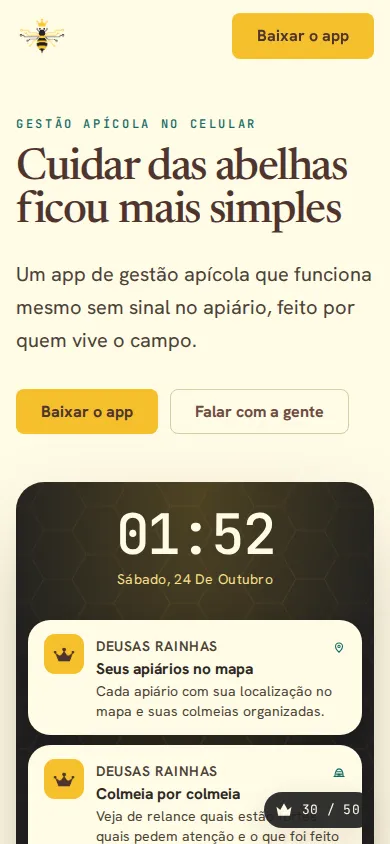
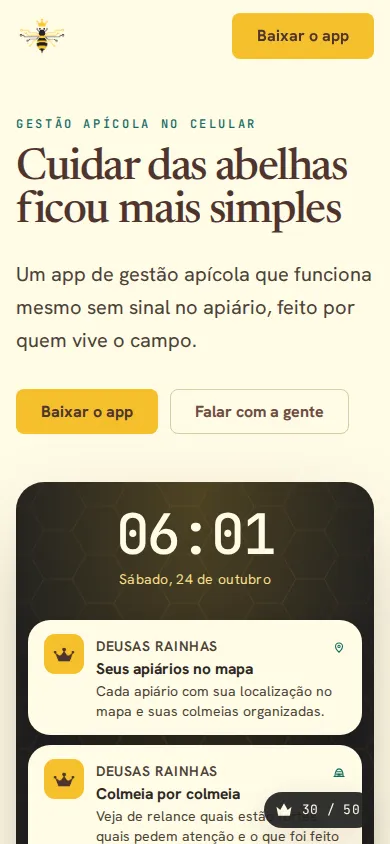
Corrige acessibilidade do bottom sheet e das abas no 29, pin do 27 só a partir de 1100px e data em caixa de frase no 30

Changed region(s): [[0.3077, 0.5853, 0.5231, 0.7085], [0.5538, 0.5853, 0.7077, 0.6469], [0.5538, 0.6777, 0.7077, 0.7085]]

diff --git a/templates/29-bolso.html b/templates/29-bolso.html
@@ -240,6 +240,7 @@
     .sheet__lista .ic { display: grid; place-items: center; width: 44px; height: 44px; border-radius: 14px; background: var(--branco); color: var(--terra); }
     .sheet__lista .chev { width: 20px; height: 20px; color: var(--terra-clara); }
     .sheet__rodape { margin-top: var(--sp-4); }
+    @media (max-width: 599px) { .sheet__rodape { padding-bottom: 118px; } } /* livra a pílula do switcher */
   </style>
 </head>
 <body>
@@ -257,18 +258,18 @@
             <li><a href="#equipe" tabindex="-1"><svg class="dr-icone" aria-hidden="true"><use href="../img/icones/sprite-icones.svg#dr-abelha"></use></svg><span class="leque__rotulo" data-c="equipe.eyebrow"></span></a></li>
             <li><a href="#contato" tabindex="-1"><svg class="dr-icone" viewBox="0 0 24 24" fill="none" stroke="currentColor" stroke-width="1.8" stroke-linecap="round" stroke-linejoin="round" aria-hidden="true"><rect x="2" y="4" width="20" height="16" rx="2"/><path d="m22 7-8.97 5.7a1.94 1.94 0 0 1-2.06 0L2 7"/></svg><span class="leque__rotulo" data-c="contato.eyebrow"></span></a></li>
           </ul>
-          <button class="leque__botao" type="button" aria-expanded="false" aria-label="menu" data-leque-botao><img src="../img/logos/coroa-terra.png" alt="" width="30" height="22"></button>
+          <button class="leque__botao" type="button" aria-expanded="false" aria-label="Atalhos" data-leque-botao><img src="../img/logos/coroa-terra.png" alt="" width="30" height="22"></button>
         </div>
       </div>
 
       <!-- Bottom sheet: arraste a alça para cima/baixo ou toque para abrir -->
       <div class="sheet" data-sheet>
-        <button class="sheet__alca" type="button" aria-expanded="false" aria-label="menu" data-sheet-alca></button>
+        <button class="sheet__alca" type="button" aria-expanded="false" aria-label="Abrir navegação" data-sheet-alca></button>
         <div class="sheet__peek">
           <a class="dr-btn dr-btn--primario polegar" data-c="cta.baixar.texto" data-c-href="cta.baixar.url"></a>
-          <button class="sheet__menu" type="button" aria-label="menu" data-sheet-toggle><svg viewBox="0 0 24 24" fill="none" stroke="currentColor" stroke-width="1.8" stroke-linecap="round" stroke-linejoin="round" aria-hidden="true"><path d="m18 15-6-6-6 6"/></svg></button>
+          <button class="sheet__menu" type="button" aria-expanded="false" aria-label="Abrir navegação" data-sheet-toggle><svg viewBox="0 0 24 24" fill="none" stroke="currentColor" stroke-width="1.8" stroke-linecap="round" stroke-linejoin="round" aria-hidden="true"><path d="m18 15-6-6-6 6"/></svg></button>
         </div>
-        <ul class="sheet__lista">
+        <ul class="sheet__lista" inert>
           <li><a href="#funcionalidades"><span class="ic"><svg class="dr-icone" aria-hidden="true"><use href="../img/icones/sprite-icones.svg#dr-colmeia"></use></svg></span><span data-c="funcionalidades.eyebrow"></span><svg class="chev" viewBox="0 0 24 24" fill="none" stroke="currentColor" stroke-width="1.8" stroke-linecap="round" stroke-linejoin="round" aria-hidden="true"><path d="m9 18 6-6-6-6"/></svg></a></li>
           <li><a href="#como-funciona"><span class="ic"><svg class="dr-icone" aria-hidden="true"><use href="../img/icones/sprite-icones.svg#dr-revisao"></use></svg></span><span data-c="comoFunciona.eyebrow"></span><svg class="chev" viewBox="0 0 24 24" fill="none" stroke="currentColor" stroke-width="1.8" stroke-linecap="round" stroke-linejoin="round" aria-hidden="true"><path d="m9 18 6-6-6-6"/></svg></a></li>
           <li><a href="#para-quem"><span class="ic"><svg class="dr-icone" aria-hidden="true"><use href="../img/icones/sprite-icones.svg#dr-florada"></use></svg></span><span data-c="paraQuem.eyebrow"></span><svg class="chev" viewBox="0 0 24 24" fill="none" stroke="currentColor" stroke-width="1.8" stroke-linecap="round" stroke-linejoin="round" aria-hidden="true"><path d="m9 18 6-6-6-6"/></svg></a></li>
@@ -276,7 +277,7 @@
           <li><a href="#equipe"><span class="ic"><svg class="dr-icone" aria-hidden="true"><use href="../img/icones/sprite-icones.svg#dr-abelha"></use></svg></span><span data-c="equipe.eyebrow"></span><svg class="chev" viewBox="0 0 24 24" fill="none" stroke="currentColor" stroke-width="1.8" stroke-linecap="round" stroke-linejoin="round" aria-hidden="true"><path d="m9 18 6-6-6-6"/></svg></a></li>
           <li><a href="#contato"><span class="ic"><svg class="dr-icone" viewBox="0 0 24 24" fill="none" stroke="currentColor" stroke-width="1.8" stroke-linecap="round" stroke-linejoin="round" aria-hidden="true"><rect x="2" y="4" width="20" height="16" rx="2"/><path d="m22 7-8.97 5.7a1.94 1.94 0 0 1-2.06 0L2 7"/></svg></span><span data-c="contato.eyebrow"></span><svg class="chev" viewBox="0 0 24 24" fill="none" stroke="currentColor" stroke-width="1.8" stroke-linecap="round" stroke-linejoin="round" aria-hidden="true"><path d="m9 18 6-6-6-6"/></svg></a></li>
         </ul>
-        <div class="sheet__rodape">
+        <div class="sheet__rodape" inert>
           <a class="dr-btn dr-btn--secundario polegar" target="_blank" rel="noopener" data-c="cta.falar.texto" data-c-href="cta.falar.url"></a>
           <a class="dr-btn dr-btn--secundario polegar" hidden data-c="cta.ios.texto" data-c-href="cta.ios.url"></a>
         </div>
@@ -385,7 +386,7 @@
           <p class="dr-eyebrow" data-c="paraQuem.eyebrow"></p>
           <h2 class="dr-h2" data-c="paraQuem.titulo"></h2>
         </header>
-        <div class="segmentos" role="tablist" data-segmentos hidden></div>
+        <div class="segmentos" role="tablist" aria-label="Perfis" data-segmentos hidden></div>
         <ul class="perfis" data-c-lista="paraQuem.perfis">
           <template>
             <li class="tile">
@@ -543,7 +544,7 @@
         lequeBotao.addEventListener('click', function () { lequeAbrir(!leque.classList.contains('aberto')); });
         document.querySelector('[data-leque-veu]').addEventListener('click', function () { lequeAbrir(false); });
         lequeLinks.forEach(function (a) { a.addEventListener('click', function () { lequeAbrir(false); }); });
-        document.addEventListener('keydown', function (e) { if (e.key === 'Escape') { lequeAbrir(false); sheetIr(false); } });
+        document.addEventListener('keydown', function (e) { if (e.key === 'Escape') { lequeAbrir(false); if (aberta) sheetIr(false, true); } });
 
         /* ---- Efeito: bottom sheet com arrasto e toque ---- */
         var sheet = document.querySelector('[data-sheet]');
@@ -565,21 +566,32 @@
             sheet.style.transform = 'translateY(' + alvo + 'px)';
           }
         }
-        function sheetIr(abrir) {
+        var fechaveis = sheet.querySelectorAll('.sheet__lista, .sheet__rodape');
+        // focar: ao abrir, leva o foco ao primeiro link; ao fechar, devolve ao botão de seta.
+        function sheetIr(abrir, focar) {
           aberta = abrir;
           sheet.classList.toggle('aberta', abrir);
-          alca.setAttribute('aria-expanded', String(abrir));
-          toggle.setAttribute('aria-expanded', String(abrir));
+          var nome = abrir ? 'Fechar navegação' : 'Abrir navegação';
+          [alca, toggle].forEach(function (b) {
+            b.setAttribute('aria-expanded', String(abrir));
+            b.setAttribute('aria-label', nome);
+          });
+          fechaveis.forEach(function (el) { el.inert = !abrir; });
           por(abrir ? 0 : fechadoY);
+          if (focar) {
+            if (abrir) { var l = sheet.querySelector('.sheet__lista a'); if (l) l.focus({ preventScroll: true }); }
+            else toggle.focus({ preventScroll: true });
+          }
         }
-        toggle.addEventListener('click', function () { sheetIr(!aberta); });
+        toggle.addEventListener('click', function () { sheetIr(!aberta, true); });
         sheet.querySelectorAll('.sheet__lista a').forEach(function (a) { a.addEventListener('click', function () { sheetIr(false); }); });
 
         // Arrastar pela alça ou pelo topo do sheet (pointer events: dedo e mouse).
         var arrasto = null;
         function inicio(e) {
           if (e.target.closest('a, .sheet__menu')) return;
-          arrasto = { y0: e.clientY, base: y, t: performance.now(), ult: e.clientY, moveu: false };
+          // A captura redireciona o pointerup para .sheet: guarda aqui se o toque começou na alça.
+          arrasto = { y0: e.clientY, base: y, t: performance.now(), ult: e.clientY, moveu: false, naAlca: !!e.target.closest('.sheet__alca') };
           sheet.setPointerCapture(e.pointerId);
           if (window.gsap) gsap.killTweensOf(sheet);
         }
@@ -598,7 +610,7 @@
           if (!arrasto) return;
           var a = arrasto; arrasto = null;
           try { sheet.releasePointerCapture(e.pointerId); } catch (err) { /* já liberado */ }
-          if (!a.moveu) { if (e.target === alca || e.target.closest('.sheet__alca')) sheetIr(!aberta); return; }
+          if (!a.moveu) { if (a.naAlca) sheetIr(!aberta, true); return; }
           var vel = a.vel || 0;
           if (vel < -0.4) sheetIr(true);
           else if (vel > 0.4) sheetIr(false);
@@ -608,7 +620,7 @@
         sheet.addEventListener('pointermove', mover);
         sheet.addEventListener('pointerup', fim);
         sheet.addEventListener('pointercancel', fim);
-        alca.addEventListener('keydown', function (e) { if (e.key === 'Enter' || e.key === ' ') { e.preventDefault(); sheetIr(!aberta); } });
+        alca.addEventListener('keydown', function (e) { if (e.key === 'Enter' || e.key === ' ') { e.preventDefault(); sheetIr(!aberta, true); } });
         window.addEventListener('resize', medir);
         medir();
         if (document.fonts) document.fonts.ready.then(medir);
@@ -640,18 +652,44 @@
         if (perfis.length) {
           seg.hidden = false;
           document.querySelector('[data-secao="para-quem"]').classList.add('js-perfis');
+          perfis[0].parentElement.setAttribute('role', 'none');
+          var abas = [];
+          function selecionar(i, focar) {
+            abas.forEach(function (x, k) {
+              x.setAttribute('aria-selected', String(k === i));
+              x.tabIndex = k === i ? 0 : -1;
+            });
+            perfis.forEach(function (x, k) { x.classList.toggle('atual', k === i); });
+            if (focar) abas[i].focus();
+            if (window.gsap && !reduzido.matches) gsap.from(perfis[i], { y: 12, autoAlpha: 0, duration: 0.35, ease: 'power2.out' });
+          }
           perfis.forEach(function (p, i) {
             var b = document.createElement('button');
             b.type = 'button'; b.setAttribute('role', 'tab');
+            b.id = 'aba-perfil-' + i;
+            p.id = 'painel-perfil-' + i;
+            b.setAttribute('aria-controls', p.id);
+            p.setAttribute('role', 'tabpanel');
+            p.setAttribute('aria-labelledby', b.id);
             b.textContent = p.querySelector('h3').textContent;
-            b.setAttribute('aria-selected', String(i === 0));
-            b.addEventListener('click', function () {
-              seg.querySelectorAll('button').forEach(function (x, k) { x.setAttribute('aria-selected', String(k === i)); });
-              perfis.forEach(function (x, k) { x.classList.toggle('atual', k === i); });
-              if (window.gsap && !reduzido.matches) gsap.from(p, { y: 12, autoAlpha: 0, duration: 0.35, ease: 'power2.out' });
-            });
+            b.addEventListener('click', function () { selecionar(i, false); });
             seg.appendChild(b);
+            abas.push(b);
           });
+          // Setas/Home/End movem entre as abas (preventDefault evita a troca de template do switcher).
+          seg.addEventListener('keydown', function (e) {
+            var i = abas.indexOf(document.activeElement);
+            if (i < 0) return;
+            var n = abas.length, alvo = null;
+            if (e.key === 'ArrowRight') alvo = (i + 1) % n;
+            else if (e.key === 'ArrowLeft') alvo = (i - 1 + n) % n;
+            else if (e.key === 'Home') alvo = 0;
+            else if (e.key === 'End') alvo = n - 1;
+            if (alvo === null) return;
+            e.preventDefault(); e.stopPropagation();
+            selecionar(alvo, true);
+          });
+          abas.forEach(function (x, k) { x.setAttribute('aria-selected', String(k === 0)); x.tabIndex = k === 0 ? 0 : -1; });
           perfis[0].classList.add('atual');
         }
 

diff --git a/templates/27-passo.html b/templates/27-passo.html
@@ -132,7 +132,7 @@
     .etapa.ativa { background: var(--mel-veu); }
     .etapa.ativa .ficha__dado { color: var(--tinta); }
     .etapa.ativa::before { background: var(--mel); }
-    @media (max-width: 899px), (prefers-reduced-motion: reduce) { .etapa .ficha__dado { color: var(--tinta); } }
+    @media (max-width: 1099px), (prefers-reduced-motion: reduce) { .etapa .ficha__dado { color: var(--tinta); } }
 
     .contador__rotulo { font-family: var(--mono); font-size: var(--fs-eyebrow); letter-spacing: .2em; text-transform: uppercase; color: var(--suave); }
     .contador { display: flex; align-items: flex-end; gap: var(--sp-2); font-family: var(--mono); color: var(--tinta); }
@@ -165,7 +165,6 @@
     /* Modo pinado (classe posta pelo JS só com movimento e ≥900px) */
     .pin-passo .hero { height: calc(100vh - 82px); min-height: 640px; grid-template-rows: auto minmax(0, 1fr); }
     .pin-passo .hero__fone .fone { --fw: min(300px, calc((100vh - 82px - 260px) * .44)); }
-    @media (max-width: 1099px) { .pin-passo .hero { height: auto; } }
 
     /* ---------- Cabeça de seção ---------- */
     .cabeca { display: grid; grid-template-columns: minmax(0, 4fr) minmax(0, 8fr); border-bottom: var(--fino); }
@@ -609,7 +608,7 @@
         var mm = gsap.matchMedia();
 
         // Efeito principal: contador de etapas pinado com crossfade das telas.
-        mm.add('(prefers-reduced-motion: no-preference) and (min-width: 900px)', function () {
+        mm.add('(prefers-reduced-motion: no-preference) and (min-width: 1100px)', function () {
           var raiz = document.documentElement;
           raiz.classList.add('pin-passo');
           var telas = gsap.utils.toArray('[data-tela]');

diff --git a/templates/30-notificacao.html b/templates/30-notificacao.html
@@ -67,7 +67,7 @@
     }
     .relogio { text-align: center; color: var(--creme); }
     .relogio time { display: block; font-family: var(--mono); font-weight: 500; font-size: clamp(56px, 6vw, 84px); line-height: 1; letter-spacing: -.04em; font-variant-numeric: tabular-nums; }
-    .relogio span { display: block; margin-top: var(--sp-2); font-size: 14px; color: var(--mel-claro); text-transform: capitalize; letter-spacing: .02em; }
+    .relogio span { display: block; margin-top: var(--sp-2); font-size: 14px; color: var(--mel-claro); letter-spacing: .02em; }
     .pilha { position: relative; margin-top: var(--sp-6); display: grid; gap: 10px; }
     .notif {
       display: grid; grid-template-columns: 40px minmax(0, 1fr); gap: var(--sp-3); align-items: start;
@@ -493,7 +493,8 @@
           h.setAttribute('datetime', agora.toISOString());
           h.textContent = agora.toLocaleTimeString('pt-BR', { hour: '2-digit', minute: '2-digit' });
           document.querySelectorAll('[data-hoje]').forEach(function (el) {
-            el.textContent = agora.toLocaleDateString('pt-BR', { weekday: 'long', day: 'numeric', month: 'long' });
+            var d = agora.toLocaleDateString('pt-BR', { weekday: 'long', day: 'numeric', month: 'long' });
+            el.textContent = d.charAt(0).toUpperCase() + d.slice(1); // sentence case: só a primeira letra
           });
         }
         relogio();
